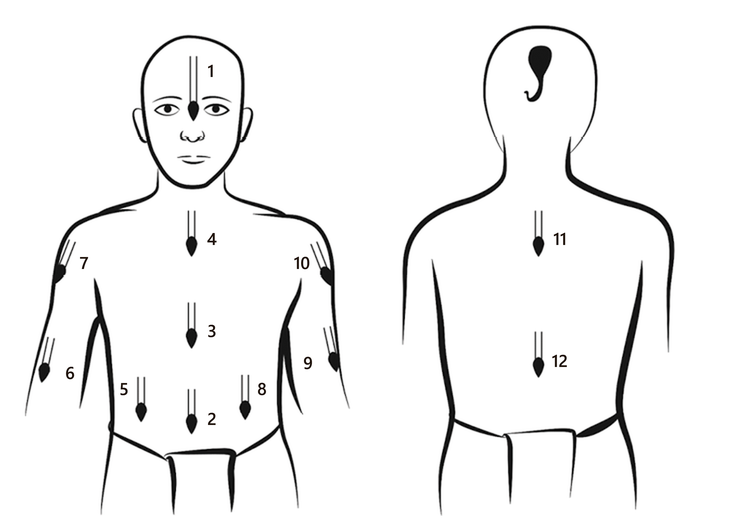
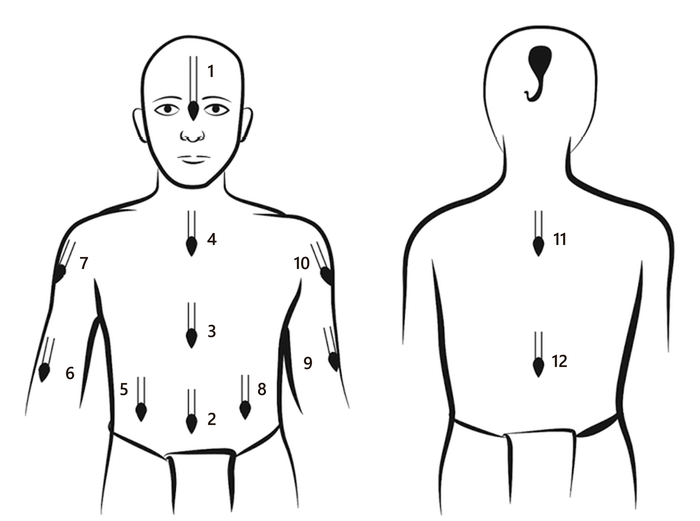
[Arcana-paddhati] Tilak picture centred: cropped symmetrically from its master — Vraja Lila msg 5392
Cause: the picture itself (not CSS) had 25 px empty on the left and 81 px on the right (52 px of them
fully transparent), so on a phone the drawing sat left of centre. public/media/common/tilak.png is now
masters/media/common/tilak.png cut to 700 px wide (25 px on both sides; nothing of the drawing cut;
the master stays untouched); WebP re-encoded (tilak-09a8f00d.webp); the 13 hotspot masks cut the same
way (right edge only, pixel positions unchanged); data/hotspots.json tilak x/rx/lx rescaled ×756/700 —
build_hotspot_masks.py rebuilt from the new data gives byte-identical masks. paraphernalia (44/47 px)
and the emblem (12/10 px) were already centred. images_webp.py: keep_master no longer overwrites an
existing master (a crop in public/ must not replace its original).

diff --git a/lib/webpImages.ts b/lib/webpImages.ts
@@ -5,7 +5,7 @@ import map from "./webp-images.json";
    PDF / EPUB use. Paths are relative to public/media/. */
 const WEBP: Record<string, string> = map;
 
-/** "common/tilak.png" -> "common/tilak-6fabb5e1.webp" (undefined if the picture has no WebP). */
+/** "common/tilak.png" -> "common/tilak-09a8f00d.webp" (undefined if the picture has no WebP). */
 export function webpFor(rel: string | undefined): string | undefined {
   return rel ? WEBP[rel] : undefined;
 }

diff --git a/scripts/images_webp.py b/scripts/images_webp.py
@@ -40,7 +40,11 @@ def encode(im, out_stem):
 
 
 def keep_master(rel):
+    # The master is the untouched original: copied once, never overwritten (20.10.2026: public/media/common/tilak.png
+    # is cropped symmetrically FROM masters/ — Vraja Lila msg 5392 — and must not replace its original).
     dst = MASTERS / rel
+    if dst.exists():
+        return
     dst.parent.mkdir(parents=True, exist_ok=True)
     shutil.copyfile(MEDIA / rel, dst)
 
